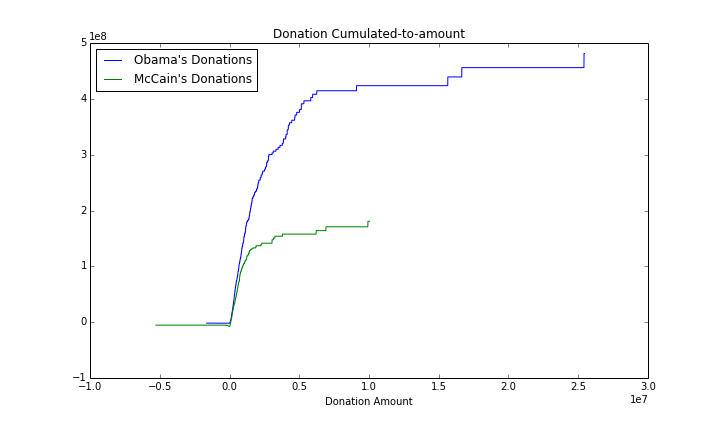
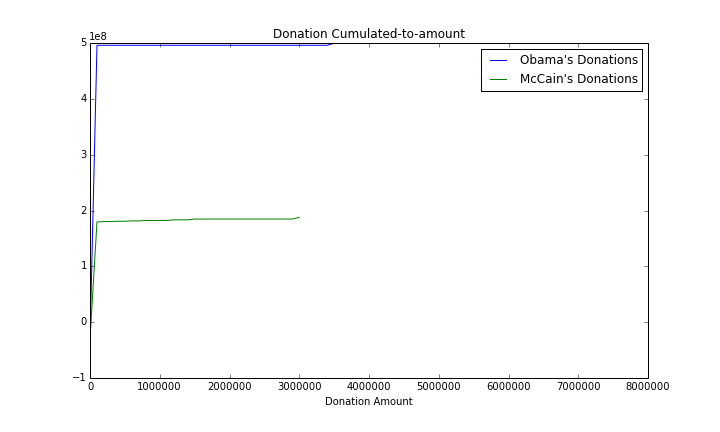
day2 ex2

diff --git a/day2/plt_cumulative_donation_line.py b/day2/plt_cumulative_donation_line.py
@@ -15,45 +15,41 @@ os.chdir('/home/bing/Projects/dataiap')
 #reader = csv.DictReader(open(sys.argv[1], 'r'))
 #reader = csv.DictReader(open('datasets/donations/donations_sampled.csv', 'r'))
 reader = csv.DictReader(open('datasets/donations/donations.csv', 'r'))
-obamadonations = defaultdict(lambda:0)
-mccaindonations = defaultdict(lambda:0)
+obamadonations = list()
+mccaindonations = list()
 
 for row in reader:
     name = row['cand_nm']
-    datestr = row['contb_receipt_dt']
     amount = float(row['contb_receipt_amt'])
-    date = datetime.datetime.strptime(datestr, '%d-%b-%y')
     
     if 'Obama' in name:
-        obamadonations[date] += amount
+        obamadonations.append(amount)
     
     if 'McCain' in name:
-        mccaindonations[date] += amount
+        mccaindonations.append(amount)
     
-## dictionaries
-def sorted_by_amount(donations):
-    return (sorted(donations, key=lambda (key, value):value))
 
-sorted_by_amount_obama = sorted_by_amount(obamadonations.items())
-date1, sorted_donation_obama = zip(*sorted_by_amount_obama)
-sorted_by_amount_mccain = sorted_by_amount(mccaindonations.items())
-date2, sorted_donation_mccain = zip(*sorted_by_amount_mccain)
-#filtered_donation_obama = filter(lambda (x,y): y>=-18000 and y<=19000, obamadonations.items())
-#filtered_donation_mccain = filter(lambda (x,y): y>=-22000 and y<=22000, mccaindonations.items())
+obamadonations = sorted(obamadonations)
+mccaindonations = sorted(mccaindonations)
+#obamadonations = filter(lambda x: x>= -18000 and x<=19000, obamadonations)
+#mccaindonations = filter(lambda x: x>= -22000 and x<=22000, mccaindonations)
 
-bucket_size = 1000
-range_obama = range(int(min(sorted_donation_obama)/bucket_size), int(max(sorted_donation_obama)/bucket_size))
-range_mccain = range(int(min(sorted_donation_mccain)/bucket_size), int(max(sorted_donation_mccain)/bucket_size))
+bucket_size = 100
+range_obama = range(int(min(obamadonations)/bucket_size), int(max(obamadonations)/bucket_size))
+range_mccain = range(int(min(mccaindonations)/bucket_size), int(max(mccaindonations)/bucket_size))
 
 def cumulated_donation_uptoamt(donations, donation_range):
     cumulated_donation = list()
+    print('Total index number: %d' % len(donation_range)) 
+    print('Now processing...')        
     for index in range(0, len(donation_range)):
-        cumulated_donation_amt = sum(filter(lambda x: x<=donation_range[index]*1000, donations))
+        print('Index %d' % index)
+        cumulated_donation_amt = sum(filter(lambda x: x<=donation_range[index]*bucket_size, donations))
         cumulated_donation.append(cumulated_donation_amt)
     return (cumulated_donation)
 
-cumulated_donation_uptoamt_obama = cumulated_donation_uptoamt(sorted_donation_obama, range_obama)
-cumulated_donation_uptoamt_mccain = cumulated_donation_uptoamt(sorted_donation_mccain, range_mccain)
+cumulated_donation_uptoamt_obama = cumulated_donation_uptoamt(obamadonations, range_obama)
+cumulated_donation_uptoamt_mccain = cumulated_donation_uptoamt(mccaindonations, range_mccain)
 
 
 xs1,ys1 = [amt*bucket_size for amt in range_obama], cumulated_donation_uptoamt_obama
@@ -68,7 +64,8 @@ width = 0.25
 subplot = fig.add_subplot(111)
 subplot.plot(xs1, ys1,  color='blue', label='Obama\'s Donations')
 subplot.plot([x+width for x in xs2], ys2, color='green', label='McCain\'s Donations')
-subplot.legend(loc='upper left', ncol=1)
+subplot.legend(loc='upper right', ncol=1)
 subplot.set_title('Donation Cumulated-to-amount')
 subplot.set_xlabel('Donation Amount')
-plt.savefig('day2/donation_cumulated.png', format='png')
+#plt.savefig('day2/donation_cumulated.png', format='png')
+plt.savefig('day2/donation_cumulated_filtered.png', format='png')
